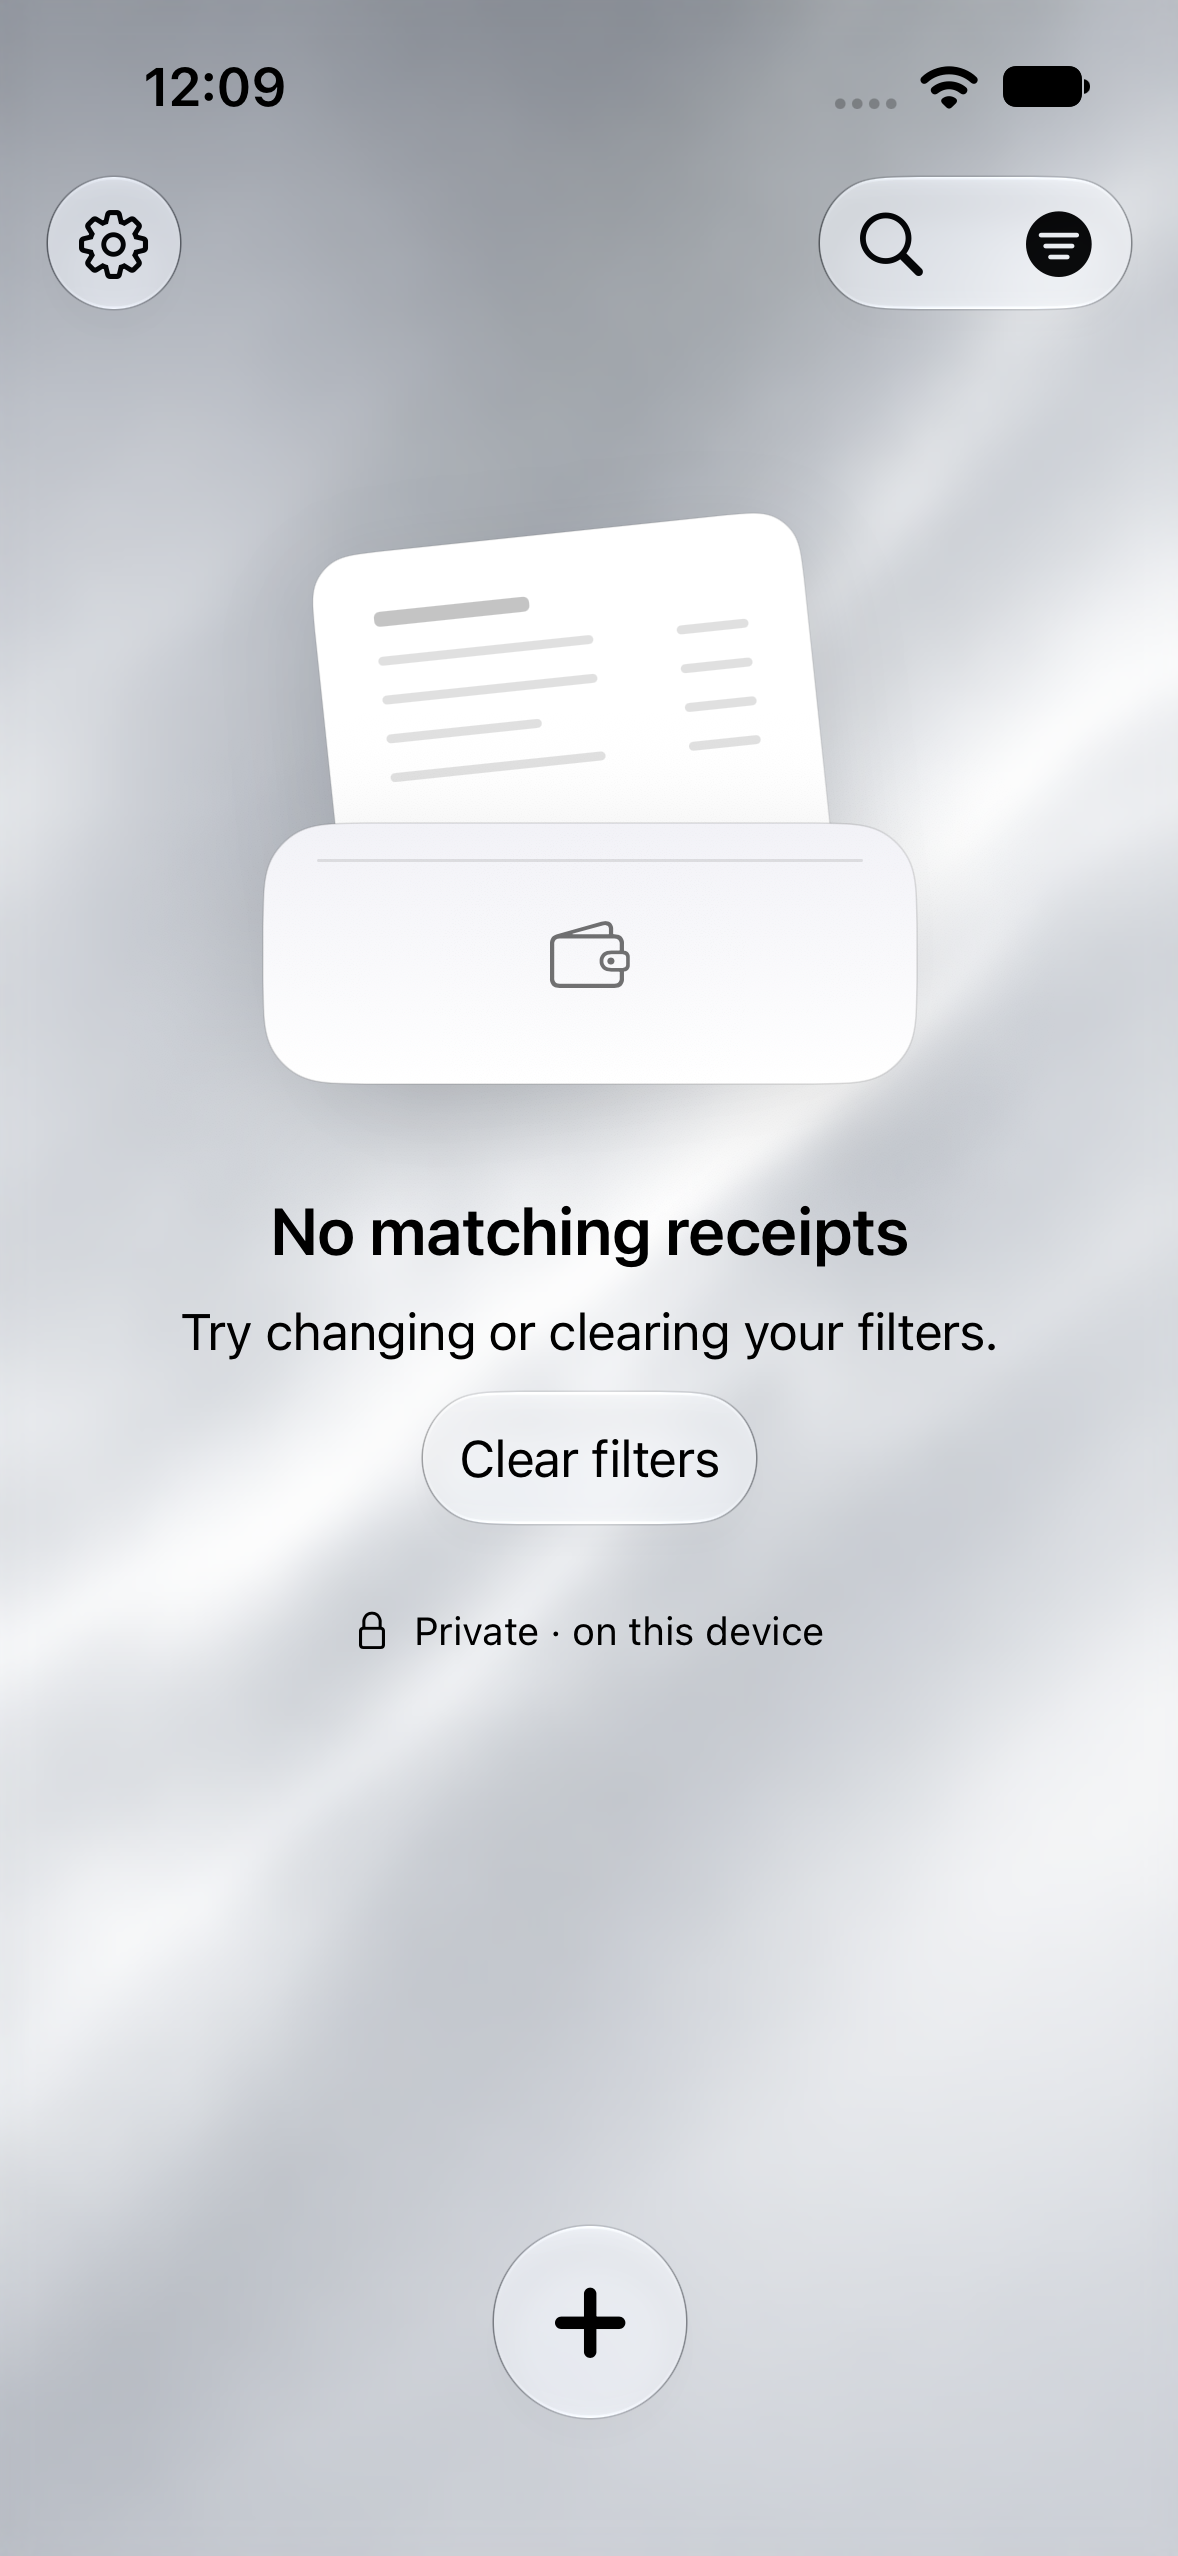
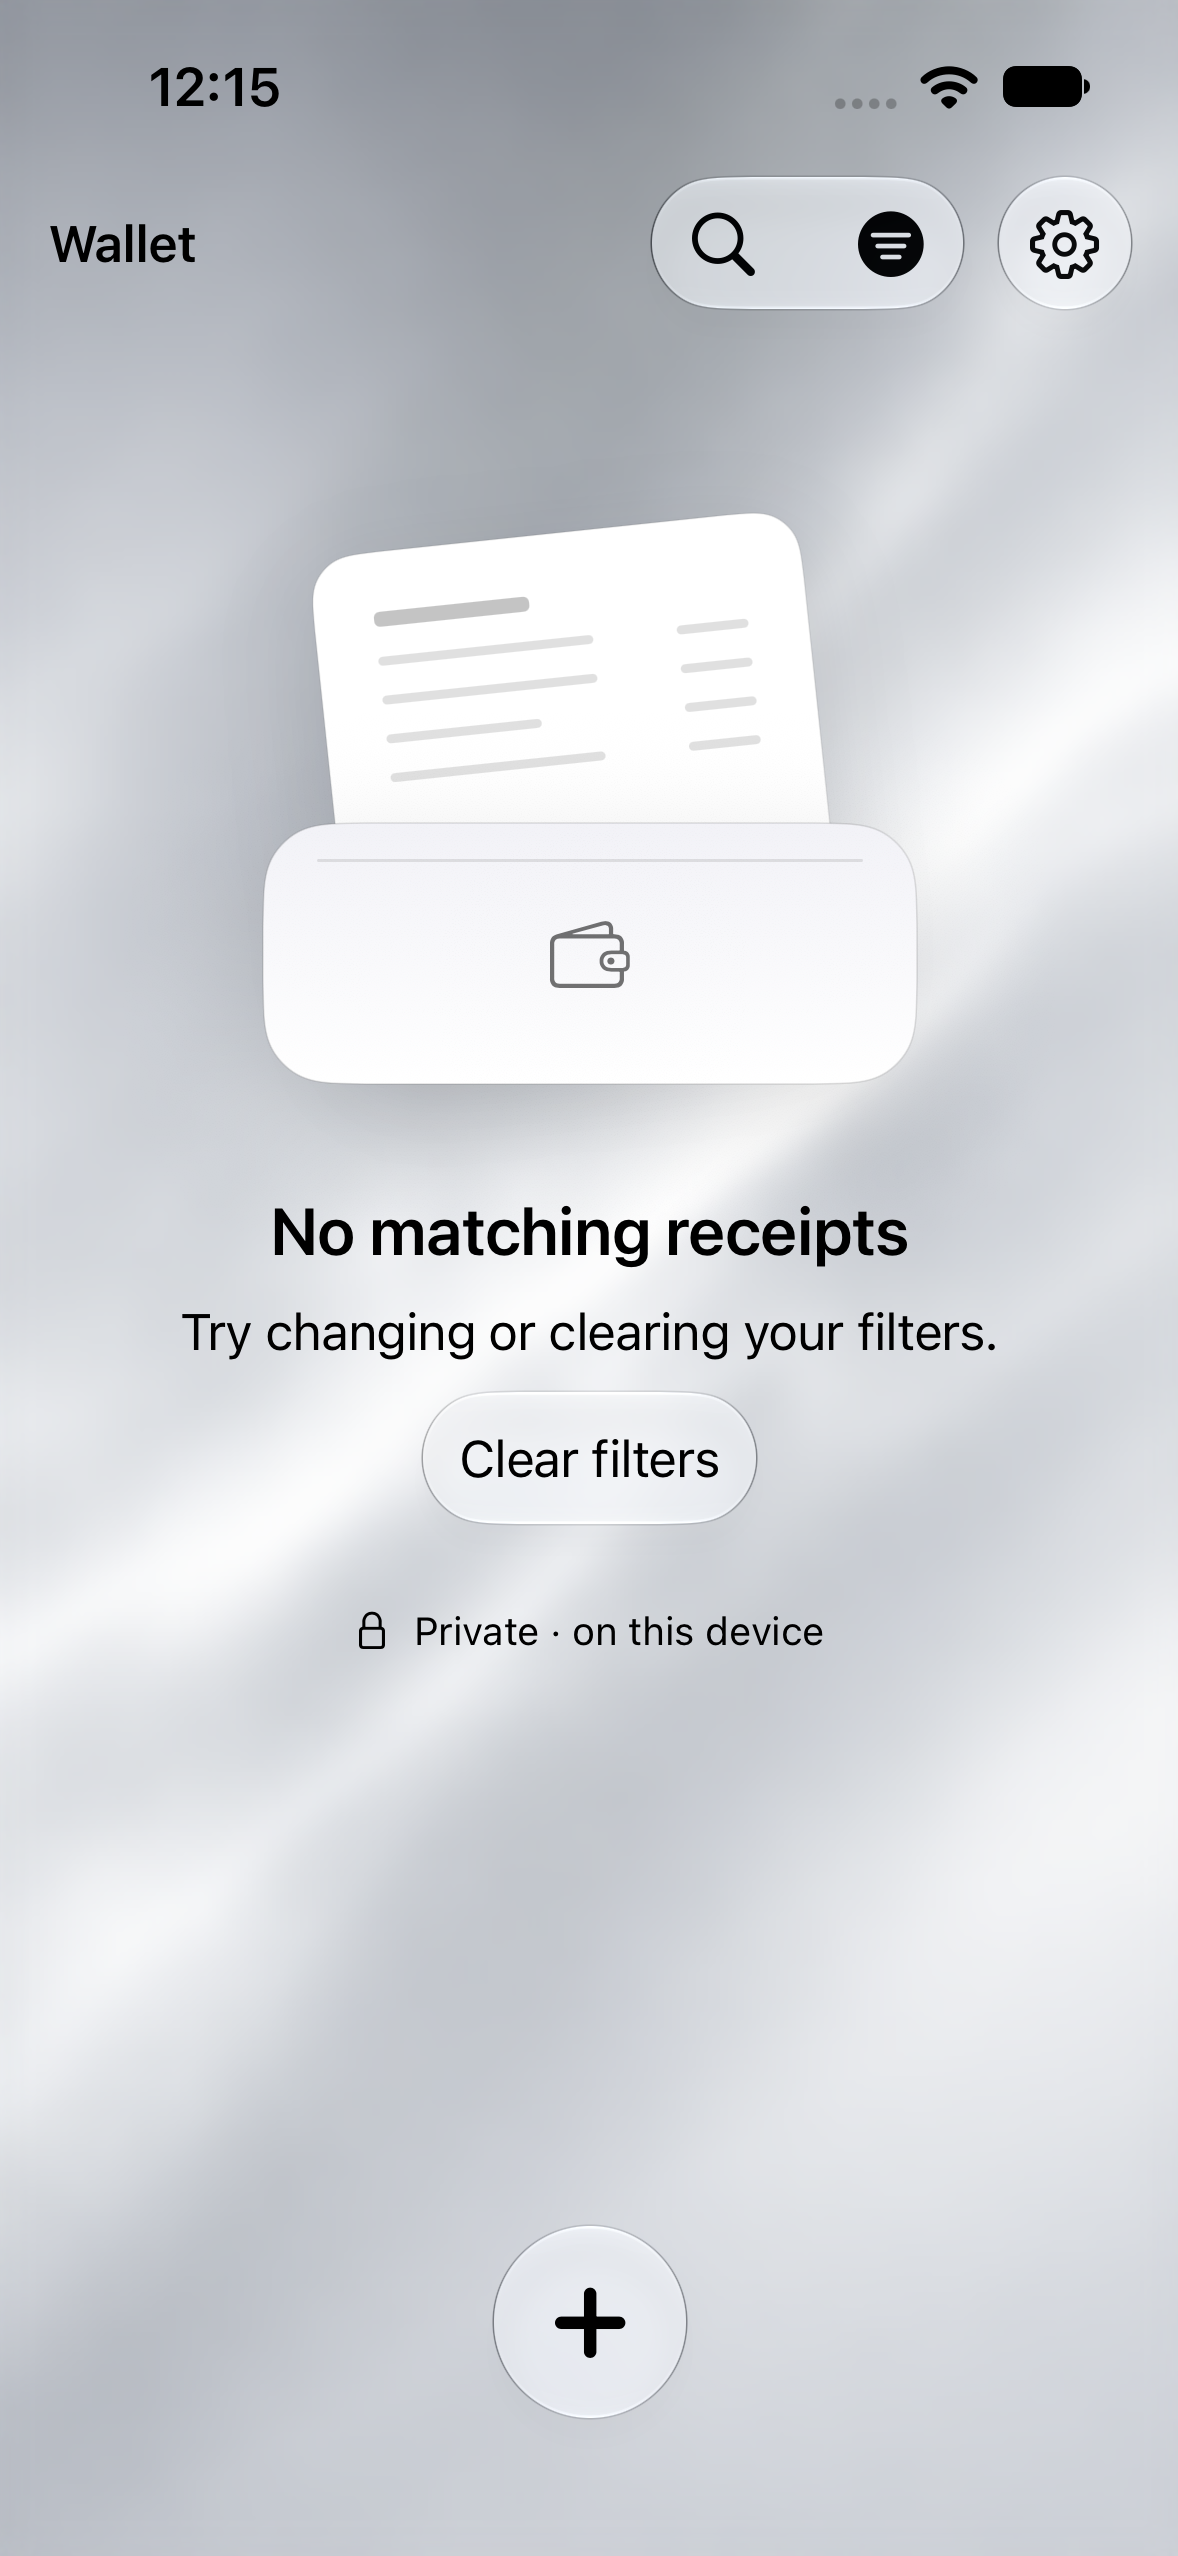
Place browsing actions at the upper right

Changed region(s): [[0.5501, 0.0618, 0.9474, 0.1236], [0.0306, 0.0309, 0.2445, 0.1236]]

diff --git a/Sliplet/UI/ReceiptHome.swift b/Sliplet/UI/ReceiptHome.swift
@@ -56,7 +56,7 @@ struct ReceiptHome: View {
                 }
             }
             .navigationTitle(title)
-            .navigationBarTitleDisplayMode(workspace.flow == .wallet && workspace.library && !workspace.searching && workspace.searchQuery.isEmpty ? .large : .inline)
+            .navigationBarTitleDisplayMode(.inline)
             .toolbar {
                 if workspace.availability == .ready && !workspace.privacyCovered {
                     if workspace.flow != .wallet && workspace.flow != .reading && workspace.flow != .loading {
@@ -81,12 +81,11 @@ struct ReceiptHome: View {
                     }
                     if workspace.flow == .wallet {
                         ToolbarItem(placement: .topBarLeading) {
-                            Button("Settings", systemImage: "gearshape") {
-                                UIApplication.shared.sendAction(#selector(UIResponder.resignFirstResponder), to: nil, from: nil, for: nil)
-                                settings = true
-                            }
-                                .accessibilityIdentifier("walletSettings")
-                        }
+                            Text(workspace.searching ? "Search" : workspace.library ? "Receipts" : "Wallet")
+                                .font(.headline).lineLimit(1).fixedSize(horizontal: true, vertical: false)
+                                .dynamicTypeSize(...DynamicTypeSize.xxxLarge)
+                                .accessibilityAddTraits(.isHeader).accessibilityIdentifier("browseTitle")
+                        }.sharedBackgroundVisibility(.hidden)
                         ToolbarItemGroup(placement: .topBarTrailing) {
                             Button("Search", systemImage: "magnifyingglass") {
                                 workspace.searching = true; workspace.searchPresented = true
@@ -96,6 +95,15 @@ struct ReceiptHome: View {
                                 workspace.searchFiltersExpanded = true
                             }.accessibilityIdentifier("searchFilters")
                         }
+                        ToolbarSpacer(.fixed, placement: .topBarTrailing)
+                        ToolbarItem(placement: .topBarTrailing) {
+                            Button("Settings", systemImage: "gearshape") {
+                                UIApplication.shared.sendAction(#selector(UIResponder.resignFirstResponder), to: nil, from: nil, for: nil)
+                                settings = true
+                            }
+                                .accessibilityIdentifier("walletSettings")
+                        }
+
                     }
                     if workspace.flow == .detail {
                         if workspace.selected != nil {
@@ -338,7 +346,7 @@ struct ReceiptHome: View {
     }
     private var title: String {
         switch workspace.flow {
-        case .wallet: workspace.library && !workspace.searching && workspace.searchQuery.isEmpty ? "Receipts" : ""
+        case .wallet: ""
         case .review: "Review receipt"
         case .detail: "Receipt"
         case .failed: "Import needs attention"
@@ -482,12 +490,7 @@ struct ReceiptHome: View {
                 ReceiptWalletScene(workspace: workspace) { record in
                     deleteTarget = record; delete = true
                 }
-                .safeAreaInset(edge: .top, spacing: 0) {
-                    if workspace.receipts.filter({ !$0.isArchived }).isEmpty && workspace.flow == .wallet {
-                        Text("Wallet").font(.largeTitle.weight(.bold)).frame(maxWidth: .infinity, alignment: .leading)
-                            .padding(.horizontal, 20).padding(.top, 4).padding(.bottom, 16).accessibilityAddTraits(.isHeader)
-                    }
-                }
+
             }
         }
     }

diff --git a/SlipletUITests/SharedBrowsingControlsUITests.swift b/SlipletUITests/SharedBrowsingControlsUITests.swift
@@ -13,6 +13,9 @@ import XCTest
         let app = launch()
         XCTAssertTrue(app.buttons["walletSettings"].isHittable)
         XCTAssertTrue(app.buttons["receiptSearch"].isHittable)
+        XCTAssertLessThan(app.buttons["receiptSearch"].frame.midX, app.buttons["searchFilters"].frame.midX)
+        XCTAssertLessThan(app.buttons["searchFilters"].frame.midX, app.buttons["walletSettings"].frame.midX)
+        XCTAssertLessThan(app.staticTexts["browseTitle"].frame.midX, app.buttons["receiptSearch"].frame.minX)
         XCTAssertFalse(app.buttons["walletMonths"].exists); XCTAssertFalse(app.buttons["allReceipts"].exists)
         app.buttons["searchFilters"].tap()
         let maximum = app.textFields["filterMaximum"]

diff --git a/docs/PHASE14_SHARED_BROWSING_CONTROLS.md b/docs/PHASE14_SHARED_BROWSING_CONTROLS.md
@@ -4,7 +4,7 @@ Owner-requested revision, November 17, 2026.
 
 ## Interaction
 
-Wallet and List share the same browsing toolbar: Settings on the leading side; Search and Filters together on the trailing side. Remove the standalone month selector, information button and view-switch button. Display mode moves into Settings. Keep receipt import as the bottom primary action in either mode.
+Wallet and List share the same browsing toolbar: A compact Wallet / Receipts / Search title on the leading side; Search and Filters grouped on the trailing side, followed by a separate Settings button at the far right. Remove the standalone month selector, information button and view-switch button. Display mode moves into Settings. Keep receipt import as the bottom primary action in either mode.
 
 Search uses the same query and scope in either mode. Filters apply to both the paper wallet and list. A filtered empty wallet must offer Clear filters rather than suggest that receipts have disappeared.
 
@@ -22,7 +22,7 @@ Verify shared results, month/exact-date/inclusive-range boundaries, amount/curre
 
 ## Implementation and scoped verification · November 18, 2026
 
-The shared toolbar is implemented: separate leading Settings, grouped trailing Search and Filters. Month jumping and the display toggle no longer occupy the toolbar. Settings contains a persistent Wallet/List choice and wallet information. Import remains the bottom primary action in both views. Search temporarily presents the native result list without changing the preferred display mode; closing search restores ordinary browsing. Native search uses avoidHidingContent to retain the toolbar, without a custom duplicate control bar.
+The shared toolbar is implemented: grouped trailing Search and Filters followed by separate far-right Settings, with a compact leading title. Month jumping and the display toggle no longer occupy the toolbar. Settings contains a persistent Wallet/List choice and wallet information. Import remains the bottom primary action in both views. Search temporarily presents the native result list without changing the preferred display mode; closing search restores ordinary browsing. Native search uses avoidHidingContent to retain the toolbar, without a custom duplicate control bar.
 
 The native filter Form provides collection, merchant, month, specific day, inclusive date range and receipt-total minimum/maximum in an explicit currency. Apply/Cancel is transactional. Invalid or reversed amounts/date ranges block Apply. Wallet and List derive the same receipt identities from one cached result set. Active conditions have compact labels and can be cleared; filtered empty states offer Clear filters. Wallet counts distinguish matching receipts from saved receipts. Search keyboard dismissal precedes filter/settings presentation.
 
@@ -33,3 +33,5 @@ Next roadmap task remains P14-04 Purchase overview, pending owner approval and e
 Fictional Simulator screenshots: [List toolbar](design/phase14/evidence/shared-controls/shared-list-toolbar.png), [active search](design/phase14/evidence/shared-controls/shared-active-search.png), [date range](design/phase14/evidence/shared-controls/shared-date-range-filter.png), [empty filter result](design/phase14/evidence/shared-controls/shared-wallet-empty-filter.png).
 
 The signed Release build was installed in place on the paired iPhone 15 Pro on November 18, 2026 using the existing com.mobyyyc.RcpLens identity. No uninstall or wallet replacement was performed. Existing-receipt visibility and owner interaction acceptance are not claimed by the installation result.
+
+The owner refined the placement on November 18: all actions occupy the upper right, ordered Search, Filters, then a separated Settings control. The leading title indicates Wallet, Receipts or Search. The redundant large List heading and empty-wallet heading are removed to preserve vertical space. Native UI checks verify button order and the existing search/filter/display-mode journeys.
